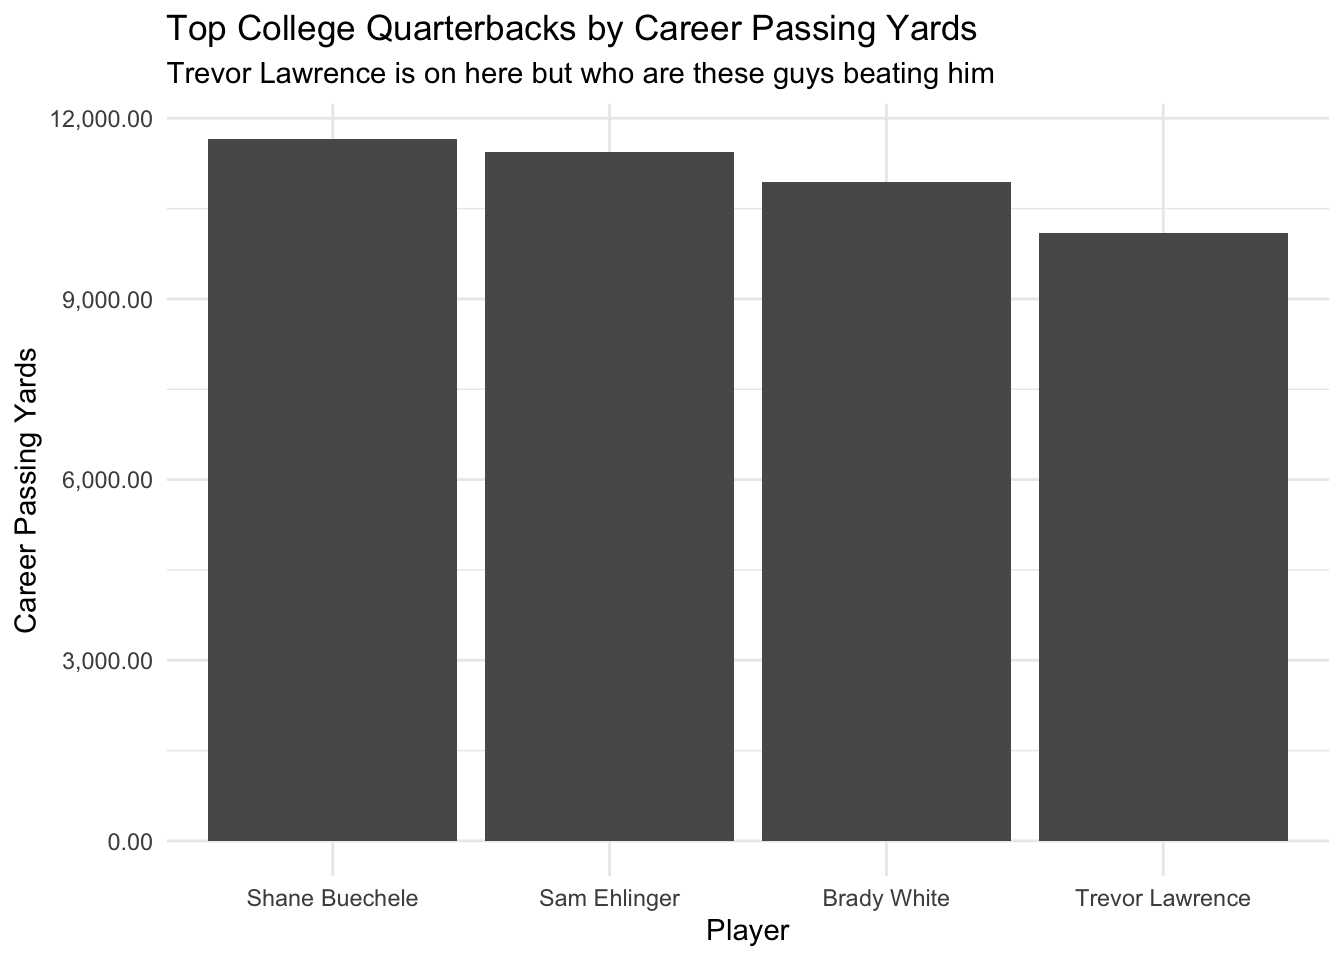
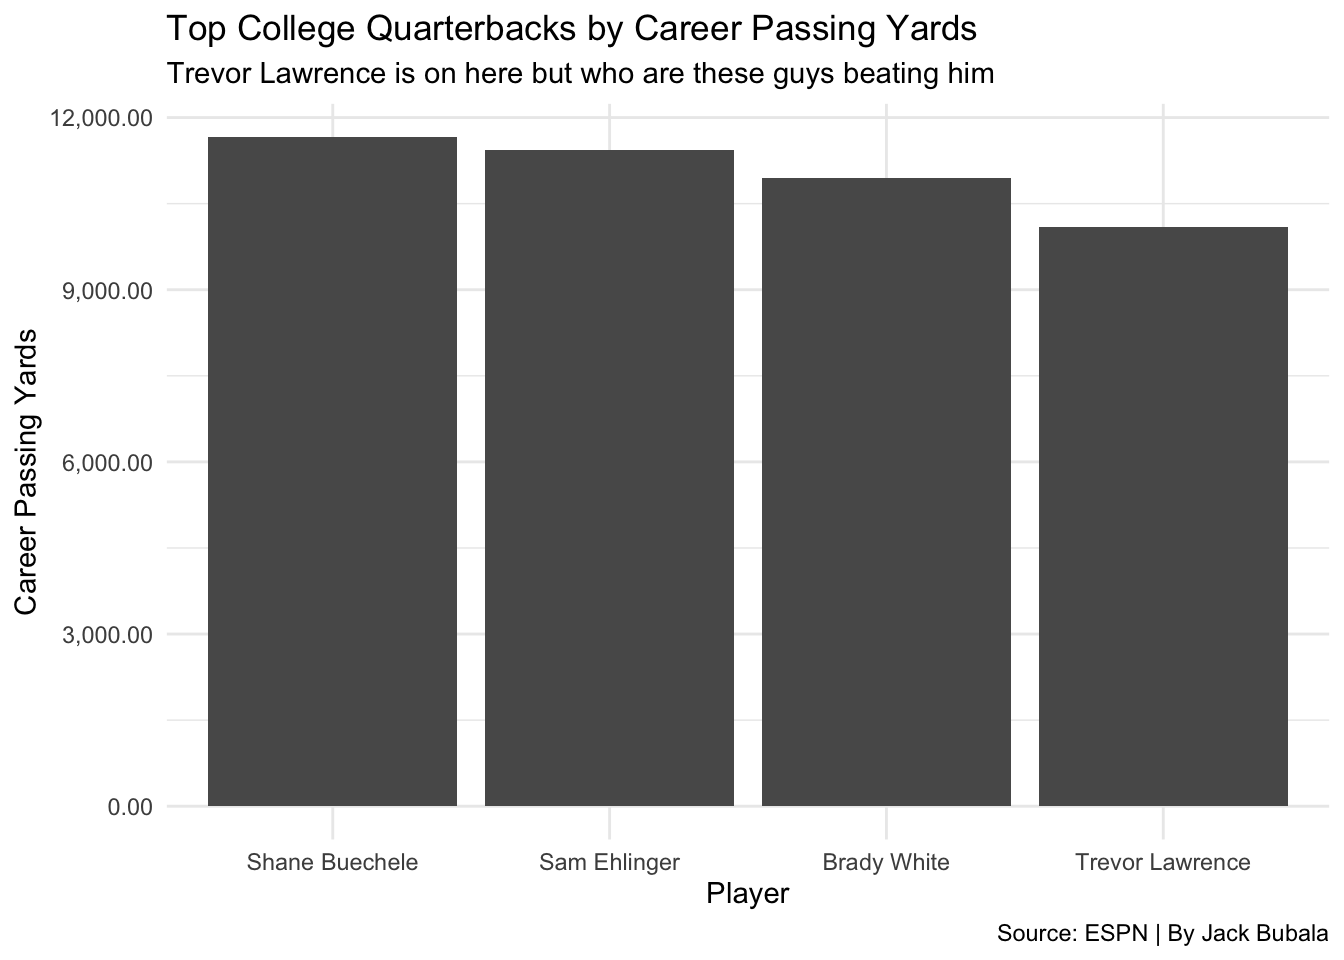
Final upload, hopefully

diff --git a/2021/04/04/the-chicago-bears-are-now-on-the-clock/index.html b/2021/04/04/the-chicago-bears-are-now-on-the-clock/index.html
@@ -62,7 +62,7 @@
 
   <article class="article">
     
-    <span class="article-duration">6 min read</span>
+    <span class="article-duration">14 min read</span>
     
 
     <h1 class="article-title">The Chicago Bears Are Now On The Clock</h1>
@@ -87,8 +87,7 @@
 <pre><code>## ── Conflicts ────────────────────────────────────────── tidyverse_conflicts() ──
 ## x dplyr::filter() masks stats::filter()
 ## x dplyr::lag()    masks stats::lag()</code></pre>
-<pre class="r"><code>library(waffle)
-library(ggalt)</code></pre>
+<pre class="r"><code>library(ggalt)</code></pre>
 <pre><code>## Registered S3 methods overwritten by &#39;ggalt&#39;:
 ##   method                  from   
 ##   grid.draw.absoluteGrob  ggplot2
@@ -139,6 +138,7 @@ dalton %&gt;% kable() %&gt;%
   save_kable(&quot;dalton.pdf&quot;)</code></pre>
 <pre><code>## Note that HTML color may not be displayed on PDF properly.</code></pre>
 <pre><code>## save_kable will have the best result with magick installed.</code></pre>
+<p><img src="images/dalton.png" style="width:100.0%" /></p>
 <p>As can be seen from the table Dalton has over 30,000 career passing yards and over 1,000 career rushing yards. That is a rare feat, and in fact by filtering out all current quarterbacks who have less than 30,000 career passing yards and 1,000 career rushing yards we find that Dalton is one of only 10 active quarterbacks to have accomplished such a feat, and was one of only 3 who were free agents this offseason.</p>
 <pre class="r"><code>nflqbs %&gt;% filter(`Total Rushing Yards` &gt;= 1000, `Total Passing Yards` &gt;= 30000) %&gt;% 
   summarise(
@@ -167,21 +167,153 @@ ggplot(careerpassingyards, aes(x = reorder(Name, - `Total Passing Yards`), weigh
   scale_y_continuous(labels = comma) +
   labs(title = &quot;Top College Quarterbacks by Career Passing Yards&quot;,
        subtitle = &quot;Trevor Lawrence is on here but who are these guys beating him&quot;,
-       x = &quot;Player&quot;, y = &quot;Career Passing Yards&quot;) +                          
+       x = &quot;Player&quot;, y = &quot;Career Passing Yards&quot;,
+       caption = &quot;Source: ESPN | By Jack Bubala&quot;) +                          
   theme_minimal()</code></pre>
 <p><img src="http://jackbubala.github.io/2021/04/04/the-chicago-bears-are-now-on-the-clock/index_files/figure-html/unnamed-chunk-4-1.png" width="672" /></p>
-<p>For the chart above I filtered out all current draft eligible quarterbacks with less than 10,000 career passing yards. As we can see from the chart there is one big name, Trevor Lawrence, expected by many to be the #1 overall pick, the Bears will likely not have a chance at him. That leaves us with three other names, Sam Ehlinger, Shane Buechele, and Brady White. Sam Ehlinger you might know, he’s been the quarterback at Texas the past four years and helped them beat Georgia in the Sugar Bowl to culminate the 2018 season. Now, who are Shane Buechele and Brady White? They are lesser known names likely because they went to SMU and Memphis respectively. However, as can be seen from the chart they should not be taken likely and if I were Ryan Pace I would most certainly have my eyes on Buechele and White as well as Sam Ehlinger.</p>
+<p>For the chart above I filtered out all current draft eligible quarterbacks with less than 10,000 career passing yards. As we can see from the chart there is one big name, Trevor Lawrence, expected by many to be the #1 overall pick, the Bears will likely not have a chance at him. That leaves us with three other names, Sam Ehlinger, Shane Buechele, and Brady White. Sam Ehlinger you might know, he’s been the quarterback at Texas the past four years and helped them beat Georgia in the Sugar Bowl to culminate the 2018 season. Now, who are Shane Buechele and Brady White? They are lesser known names likely because they went to SMU and Memphis respectively. However, as can be seen from the chart they should not be taken lightly and if I were Ryan Pace I would most certainly have my eyes on Buechele and White as well as Sam Ehlinger.</p>
 <p>Now it’s time to take a look at stats from just 2020 and see if these 4 names we see here showed last year that they are capable of playing at the highest level during the hardest year.</p>
 <pre class="r"><code>currentpassingyards &lt;- collegeqbs %&gt;% filter(`2020 Passing Yards` &gt;= 3000)
 ggplot(currentpassingyards, aes(x = reorder(Name, - `2020 Passing Yards`), weight = `2020 Passing Yards`)) + 
   geom_bar() +
   scale_y_continuous(labels = comma) +
   labs(title = &quot;Top College Quarterbacks by 2020 Passing Yards&quot;,
-       subtitle = &quot;Trevor Lawrence is on here but who are these guys beating him&quot;,
-       x = &quot;Player&quot;, y = &quot;2020 Passing Yards&quot;) +                          
+       subtitle = &quot;The SEC leads the pack but the smaller guys aren&#39;t too far behind&quot;,
+       x = &quot;Player&quot;, y = &quot;2020 Passing Yards&quot;,
+       caption = &quot;Source: ESPN | By Jack Bubala&quot;) +                          
   theme_minimal()</code></pre>
 <p><img src="http://jackbubala.github.io/2021/04/04/the-chicago-bears-are-now-on-the-clock/index_files/figure-html/unnamed-chunk-5-1.png" width="672" /></p>
-<p>There’s some more familiar names for you! Lawrence is still on there and has been joined by fellow top-5 pick projection, Zach Wilson from BYU. Mac Jones and Kyle Trask are also on there, you might remember them from their shootout in this year’s SEC Championship game. Sam Ehlinger didn’t make the cut but we see Brady White and Shane Buechele back up here, now this is the tough part. If I were Ryan Pace, and I solely wanted to play to Dalton’s arm, I would take Trask if he’s there; a Power 5 talent with a New Year’s Six win in two appearences and an SEC East division title. However, don’t reach for him, don’t reach when there’s better talent on the board to build the team around, and most important of all, DON’T TRADE UP!! All Bears fans know how that went last time. If we can’t get Trask, I would pick Brady White. White is the much more likely option than Trask and he could go undrafted if not for a team like the Bears seeing his potential. White also has the better resume, having lead Memphis to a New Year’s Six appearance just a year ago and he seems to be a better fit for the Bears system in my opinion.</p>
+<p>There’s some more familiar names for you! For the chart above I filtered out all draft elibgible quarterbacks who threw less than 3,000 yards this year. Lawrence is still on there and has been joined by fellow top-5 pick projection, Zach Wilson from BYU. Mac Jones and Kyle Trask are also on there, you might remember them from their shootout in this year’s SEC Championship game. Sam Ehlinger didn’t make the cut but we see Brady White and Shane Buechele back up here, now this is the tough part. If I were Ryan Pace, and I solely wanted to play to Dalton’s arm, I would take Trask if he’s there; a Power 5 talent with a New Year’s Six win in two appearences and an SEC East division title. However, don’t reach for him, don’t reach when there’s better talent on the board to build the team around, and most important of all, DON’T TRADE UP!! All Bears fans know how that went last time. If we can’t get Trask, I would pick Brady White. White is the much more likely option than Trask and he could go undrafted if not for a team like the Bears seeing his potential. White also has the better resume, having lead Memphis to a New Year’s Six appearance just a year ago and he seems to be a better fit for the Bears system in my opinion.</p>
+<p>Now we will do the same thing as the last two charts except for changing passing yards to rushing yards. I will once again be making two bar charts, one for career rushing yards and one for 2020 rushing yards.</p>
+<pre class="r"><code>careerrushingyards &lt;- collegeqbs %&gt;% filter(`Total Rushing Yards` &gt;= 1000)
+ggplot(careerrushingyards, aes(x = reorder(Name, - `Total Rushing Yards`), weight = `Total Rushing Yards`)) + 
+  geom_bar() +
+  scale_y_continuous(labels = comma) +
+  labs(title = &quot;Top College Quarterbacks by Career Rushing Yards&quot;,
+       subtitle = &quot;Sam Ehlinger leads the competition by a wide margin&quot;,
+       x = &quot;Player&quot;, y = &quot;Career Rushing Yards&quot;,
+       caption = &quot;Source: ESPN | By Jack Bubala&quot;) +                          
+  theme_minimal()</code></pre>
+<p><img src="http://jackbubala.github.io/2021/04/04/the-chicago-bears-are-now-on-the-clock/index_files/figure-html/unnamed-chunk-6-1.png" width="672" /></p>
+<p>For this chart I filtered out all draft eligible quarterbacks who ran for less than 1,000 yards in their career. As can be seen from the data above Sam Ehlinger leads the pack, and by a lot, nearly 300 yards over Kellen Mond, the Texas A&amp;M quarterback. This list is rounded out with some more familiar names such as Ian Book from Notre Dame, maybe bringing him to Chicago and reuniting him with his old tight end Cole Kmet would be a good idea. Justin Fields is on here as well but will likely be gone by the time the Bears get a chance to select. There’s also Peyton Ramsey, who may sound familiar to Chicago fans but that’s likely because he played 20 miles north in Evanston this year and lead the Wildcats to a Big Ten West Division title. Then there’s Zac Thomas and Trey Lance. Lance played for North Dakota State and is being highly touted as a top player by analysts even being projected to go as high as #3, so the Bears will likely not have a shot at him either.Thomas played for Applachian State, a team who won the Sun Belt in both 2018 and 19.</p>
+<p>Now we will see if these players show up again when we look at the rushing stats from just this year.</p>
+<pre class="r"><code>currentrushingyards &lt;- collegeqbs %&gt;% filter(`2020 Rushing Yards` &gt;= 250)
+ggplot(currentrushingyards, aes(x = reorder(Name, - `2020 Rushing Yards`), weight = `2020 Rushing Yards`)) + 
+  geom_bar() +
+  scale_y_continuous(labels = comma) +
+  labs(title = &quot;Top College Quarterbacks by 2020 Rushing Yards&quot;,
+       subtitle = &quot;Now it&#39;s Ian Book who leads the competition by a wide margin&quot;,
+       x = &quot;Player&quot;, y = &quot;2020 Rushing Yards&quot;,
+       caption = &quot;Source: ESPN | By Jack Bubala&quot;) +
+  theme_minimal()</code></pre>
+<p><img src="http://jackbubala.github.io/2021/04/04/the-chicago-bears-are-now-on-the-clock/index_files/figure-html/unnamed-chunk-7-1.png" width="672" /></p>
+<p>For this chart above, I filtered out all draft eligible quarterbacks who rushed for less than 250 yards this year. Ian Book now leads the field and by a wide margin. Fields follows and Ehlinger comes after him who we saw leading the last chart. Thomas and Mond come next followed by Ramsey and then we see the re-appearance of Zach Wilson. Wilson is likely only on here because Lance only played one game this fall before Lance declared for the draft as North Dakota State is in the FCS. Now again the tough part, who would I pick. I think that based off running alone Sam Ehlinger would be the best pick coming just in front of Ian Book. If you’re a Notre Dame fan like myself you know that Book is not good in the big game and that will hurt him in the NFL. Ehlinger appears more draft-ready to be and played very well in the Senior Bowl making him my pick if I were drafting just based on rushing.</p>
+<p>Now, before I compile all this data together and make my projection as to who Ryan Pace should draft to run the offense after Andy Dalton, I will first go over that initial decision, to sign Andy Dalton. As I mentioned previously there were only three free agent quarterbacks, including Dalton, who had amassed over 30,000 passing yards and over 1,000 rushing yards in their careers. I will again be creating two charts, but this time they will be bubble charts, and I will be showing where those three quarterbacks rank among current quarterbacks, who were free agents this year, who have either thrown for over 30,000 yards or rushed for over 1,000 yards respectively while also specifically highlighting the three who did both: Andy Dalton, Alex Smith, and Ryan Fitzpatrick.</p>
+<pre class="r"><code>fitzpatrick &lt;- nflqbs %&gt;% filter(Name==&quot;Ryan Fitzpatrick&quot;)
+smith &lt;- nflqbs %&gt;% filter(Name==&quot;Alex Smith&quot;)
+passing &lt;- nflqbs %&gt;% filter(`Total Passing Yards` &gt;= 30000, `Team`==&quot;None&quot;)
+ggplot() + 
+  geom_point(
+    data=passing, 
+    aes(x=`Total Passing Yards`, y=`2020 Passing Yards`, size=`Total Passing Yards`), 
+    color=&quot;grey&quot;, 
+    alpha=.5) + 
+  geom_point(
+    data=dalton, 
+    aes(x=`Total Passing Yards`, y=`2020 Passing Yards`, size=`Total Passing Yards`), 
+    color=&quot;blue&quot;) + 
+  geom_point(
+    data = fitzpatrick,
+    aes(x=`Total Passing Yards`, y=`2020 Passing Yards`, size=`Total Passing Yards`),
+    color=&quot;orange&quot;) +
+  geom_point(
+    data = smith,
+    aes(x=`Total Passing Yards`, y=`2020 Passing Yards`, size=`Total Passing Yards`),
+    color=&quot;red&quot;) +
+  geom_vline(xintercept = 5.820543) + 
+  geom_hline(yintercept = 5.673263) + 
+  geom_text_repel(
+    data=passing, 
+    aes(x=`Total Passing Yards`, y=`2020 Passing Yards`, label=Name)
+  ) +
+  labs(title=&quot;NFL Quarterbacks by Passing Yards&quot;, subtitle=&quot;All the good quarterbacks are signed so we get what&#39;s left&quot;, caption=&quot;Source: ProFootballReference | By Jack Bubala&quot;)  + theme_minimal() + 
+  theme(
+    plot.title = element_text(size = 16, face = &quot;bold&quot;),
+    axis.title = element_text(size = 10), 
+    plot.subtitle = element_text(size=12),
+    plot.caption = element_text(size=8),
+    panel.grid.minor = element_blank()
+    )</code></pre>
+<p><img src="http://jackbubala.github.io/2021/04/04/the-chicago-bears-are-now-on-the-clock/index_files/figure-html/unnamed-chunk-8-1.png" width="672" />
+Looks like we only had four options. The surprising part of this is likely that the largest bubble didn’t even belong to someone on our radar, Joe Flacco. Flacco’s problem however is that he isn’t much of an agile guy. Now, going back to our main three we see something troubling, Dalton has the smallest circle. Based off these stats, it doesn’t seem that Pace made the right choice, shocker. Smith appears to be the man for the job. Let’s see if that holds up through the rushing stats.</p>
+<pre class="r"><code>rushing &lt;- nflqbs %&gt;% filter(`Total Rushing Yards` &gt;= 1000, `Team`==&quot;None&quot;)
+ggplot() + 
+  geom_point(
+    data=rushing, 
+    aes(x=`Total Rushing Yards`, y=`2020 Rushing Yards`, size=`Total Rushing Yards`), 
+    color=&quot;grey&quot;, 
+    alpha=.5) + 
+  geom_point(
+    data=dalton, 
+    aes(x=`Total Rushing Yards`, y=`2020 Rushing Yards`, size=`Total Rushing Yards`), 
+    color=&quot;blue&quot;) + 
+  geom_point(
+    data = fitzpatrick,
+    aes(x=`Total Rushing Yards`, y=`2020 Rushing Yards`, size=`Total Rushing Yards`),
+    color=&quot;orange&quot;) +
+  geom_point(
+    data = smith,
+    aes(x=`Total Rushing Yards`, y=`2020 Rushing Yards`, size=`Total Rushing Yards`),
+    color=&quot;red&quot;) +
+  geom_vline(xintercept = 5.820543) + 
+  geom_hline(yintercept = 5.673263) + 
+  geom_text_repel(
+    data=rushing, 
+    aes(x=`Total Rushing Yards`, y=`2020 Rushing Yards`, label=Name)
+  ) +
+  labs(title=&quot;NFL Quarterbacks by Rushing Yards&quot;, subtitle=&quot;All the good quarterbacks are signed so we get what&#39;s left&quot;, caption=&quot;Source: ProFootballReference | By Jack Bubala&quot;)  + theme_minimal() + 
+  theme(
+    plot.title = element_text(size = 16, face = &quot;bold&quot;),
+    axis.title = element_text(size = 10), 
+    plot.subtitle = element_text(size=12),
+    plot.caption = element_text(size=8),
+    panel.grid.minor = element_blank()
+    )</code></pre>
+<p><img src="http://jackbubala.github.io/2021/04/04/the-chicago-bears-are-now-on-the-clock/index_files/figure-html/unnamed-chunk-9-1.png" width="672" />
+Once again, Dalton’s circle is the smallest of those highlighted, bad news. While Dalton was a better choice than the other choices who can’t seem to throw; Trubisky, RG3, McCown, Taylor, Bortles, and Winston, he still pales in comparison to Fitzpatrick and Smith. Now, I will cut Pace some slack for not signing Fitzpatrick, as he was picked up by Washington while the Bears were still pursuing Wilson, I will not however forgive Pace for not signing Alex Smith. Yes, Smith is coming off a gruesome leg injury but he won Comeback Player of the Year and that is no small task. There’s one more reason as to why Smith could’ve been chosen solely based off his arm, his last mentee, Ryan Pace’s nightmare, Patrick Mahomes. If Smith was able to usher in Mahomes and help shape him into the player he is, who knows what he’d be able to do with whoever the Bears decide to draft under center. Speaking of which, let’s find out who Smith’s perfect pairing would have been.</p>
+<p>For this part I will create a stacked bar chart of the draft eligible players with over 8,000 passing yards and over 500 rushing yards that I think would’ve best learned under Smith’s direction and I will pick one from there to be drafted by the Bears.</p>
+<pre class="r"><code>thepick &lt;- collegeqbs %&gt;% 
+  filter(`Total Passing Yards` &gt;= 8000, `Total Rushing Yards` &gt;= 500) %&gt;% 
+  summarise(
+    Name,
+    Team,
+    `Total Passing Yards`,
+    `Total Rushing Yards`
+  )
+thepickwide &lt;- thepick %&gt;% 
+  pivot_longer(
+    cols=starts_with(&quot;Total&quot;), 
+    names_to=&quot;Type&quot;, 
+    values_to=&quot;Yards&quot;)
+  ggplot(thepickwide, aes(x=reorder(Name, Yards), weight=Yards, fill=Type)) + 
+  geom_bar() + 
+  coord_flip() +
+  labs(
+    x = &quot;Player&quot;,
+    y = &quot;Total Offensive Yards&quot;,
+    title = &quot;Draft Eligible Quarterbacks Total Offensive Yards&quot;,
+    subtitle = &quot;Ehlinger doesn&#39;t even let it be close&quot;,
+    source = &quot;ESPN&quot;
+  ) +
+  theme_minimal() + 
+  theme(
+    plot.title = element_text(size = 16, face = &quot;bold&quot;),
+    plot.subtitle = element_text(size = 10),
+    axis.title = element_text(size = 8),
+    panel.grid.minor = element_blank()
+  )</code></pre>
+<p><img src="http://jackbubala.github.io/2021/04/04/the-chicago-bears-are-now-on-the-clock/index_files/figure-html/unnamed-chunk-10-1.png" width="672" />
+The pick is in: Sam Ehlinger. Ehlinger is not projected to go very highly in the draft making this selection even better as Pace can build a team around him, help retool the defense, and get a solid replacement for Kyle Long. The icing on the cake, Tom Herman. Herman was the football coach at the University of Texas, Ehlinger’s school, for the past 4 years all while Ehlinger was there. Herman was hired this offseason as an assistant coach by the Chicago Bears. Many analysts, including Adam Schefter, were puzzled by the move wondering what it could be. Now, it seems apparent. Herman is going to get a chance to mentor Ehlinger again, now on a much bigger stage. You thought playing for Texas was hard, just wait unti you step inside Soldier Field. Bears fans will boo their own offense with no mercy. Pace knows this, but he also has a coach on his staff who knows Sam better than anyone. That is why I believe Pace will finally make the right call and pick the guy. He can be an underdog and doubted which Pace seems to like, but he will be the guy. The stats say it and hopefully Pace will too. April 30th or May 1st, Sam Ehlinger will be drafted. Hopefully, he can keep wearing the orange he’s worn for the past four years but this time in Chicago. This is Pace’s last shot. If the Bears don’t have a glimmer of hope by the end of 2022 if not 2021, then Pace will likely be fired. He already messed up in choosing Dalton over Smith, now make it right and prove to this city and most importantly to yourself that you’re not just a guy who can draft a defense and was double-doinked out of Chicago.</p>
 
     </div>
   </article>
